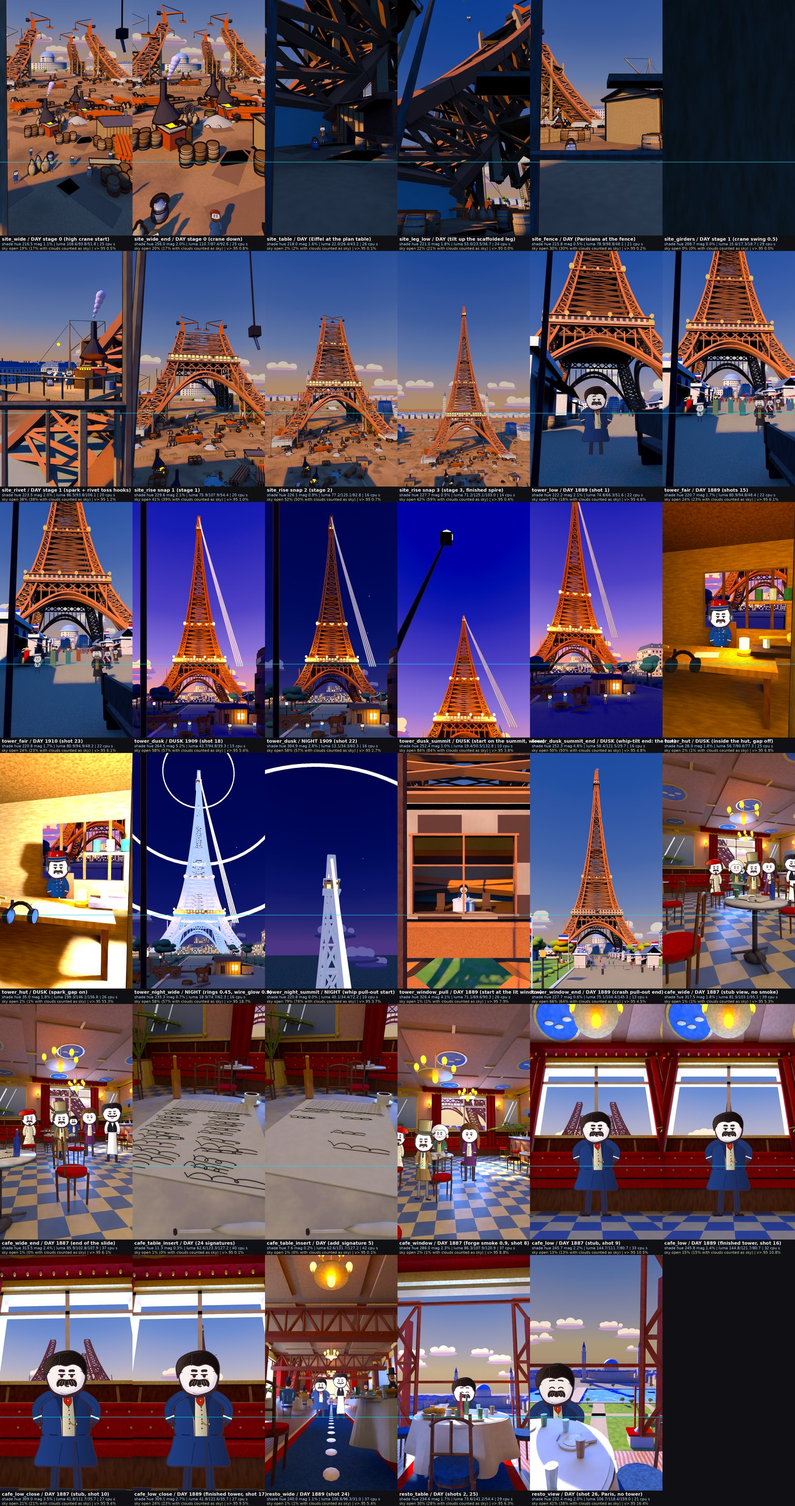
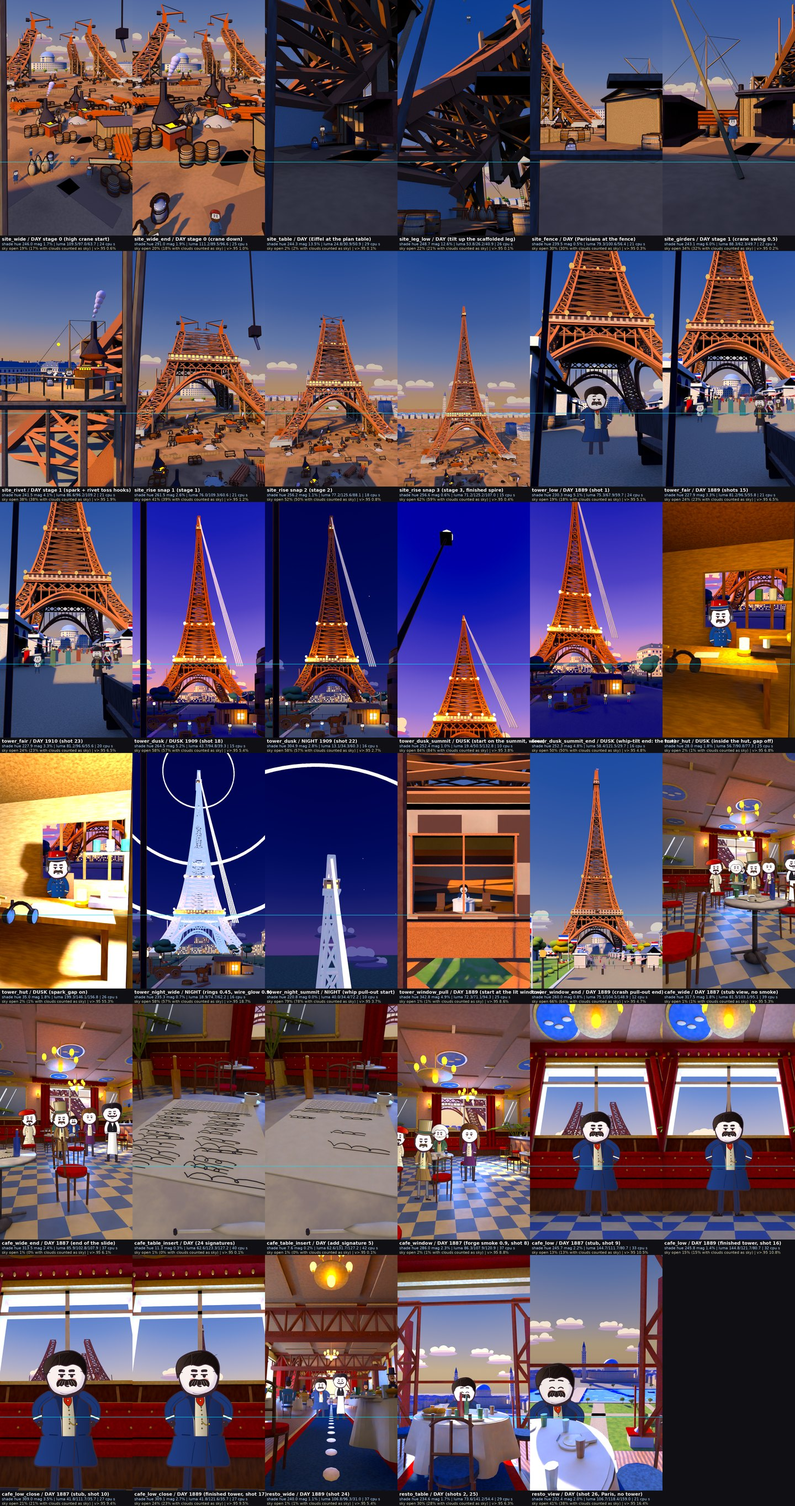
Film 20: set3d20 complete (SITE, TOWER, CAFE, RESTO; 36-tile contact, hue + cost reports)

diff --git a/film/v3/set3d20/tower20.py b/film/v3/set3d20/tower20.py
@@ -11,7 +11,7 @@ from kit20 import tw, th, Z1, Z2, Z3
 
 # ------------------------------------------------------------------ lights
 LIGHTS = dict(
-    DAY=dict(sky=['#f2c89a', '#eec4a4', '#cfc0cc', '#94aee8', '#6a8cdc', '#4c74d2', '#3a62c8'], sky_k=0.85, amb=('#3c78FF', 2.5), key=(1.0, 0.84, 0.62, 8.5), key_dir=(0.30, 0.62, -0.46), sun_angle=1.0, exposure=-0.55, sat=1.08, lamp=0.12),
+    DAY=dict(sky=['#f2c89a', '#eec4a4', '#cfc0cc', '#94aee8', '#6a8cdc', '#4c74d2', '#3a62c8'], sky_k=0.85, amb=('#5480FF', 2.5), key=(1.0, 0.84, 0.62, 8.5), key_dir=(0.30, 0.62, -0.46), sun_angle=1.0, exposure=-0.55, sat=1.08, lamp=0.12),
     DUSK=dict(sky=['#f6a878', '#f0a07e', '#c890b4', '#8a78cc', '#5a52b8', '#3a3ca8', '#262c98'], sky_k=1.0, amb=('#2c32F0', 0.95), key=(1.0, 0.66, 0.4, 3.6), key_dir=(0.6, 0.55, -0.1), sun_angle=1.5, exposure=0.25, sat=1.1, lamp=1.0),
     NIGHT=dict(sky=['#4a3a78', '#3a3470', '#2a2c68', '#1e2260', '#161a54', '#10144a', '#0a0e3c'], sky_k=1.0, amb=('#3a44F8', 0.55), key=(0.55, 0.66, 1.0, 0.9), key_dir=(0.35, 0.55, -0.55), sun_angle=2.5, exposure=0.35, sat=1.1, lamp=1.35),
 )

diff --git a/film/v3/set3d20/site20.py b/film/v3/set3d20/site20.py
@@ -12,7 +12,7 @@ from kit20 import tw, th, Z1, Z2
 # ------------------------------------------------------------------ lights (DAY)
 SKY_DAY = ['#f2c89a', '#eec4a4', '#cfc0cc', '#94aee8', '#6a8cdc', '#4c74d2', '#3a62c8']
 LIGHTS = dict(
-    DAY=dict(sky=SKY_DAY, sky_k=0.8, amb=('#3c78FF', 2.4), key=(1.0, 0.82, 0.58, 8.0), key_dir=(0.50, 0.42, -0.42), sun_angle=1.0, exposure=-0.7, sat=1.08, lamp=1.0),
+    DAY=dict(sky=SKY_DAY, sky_k=0.8, amb=('#5480FF', 2.4), key=(1.0, 0.82, 0.58, 8.0), key_dir=(0.50, 0.42, -0.42), sun_angle=1.0, exposure=-0.7, sat=1.08, lamp=1.0),
     LATE=dict(sky=['#f0a878', '#e8a090', '#c8a0b8', '#8a8cd8', '#6a76d0', '#5266c4', '#3a4cb8'], sky_k=0.8, amb=('#5a74F8', 2.0), key=(1.0, 0.66, 0.42, 7.0), key_dir=(0.62, 0.30, -0.30), sun_angle=1.2, exposure=-0.7, sat=1.1, lamp=1.0),
 )
 

diff --git a/film/v3/set3d20/API.md b/film/v3/set3d20/API.md
@@ -126,3 +126,10 @@ RESTO gate: resto_wide floor 24.3 % (<= 25), blue 25.8 % (>= 12), magenta 2.1 % 
 ## Known limits (see the report)
 The seated Maupassant has no seated puppet pose yet (stand-in card is lowered); flat cut-out diners are set dressing, not cast art; the stub / full tower are 190 m / 430 m from the café (not true to the map) so the tower reads in the window; the Trocadero reads as a stylised palace with two towers; the café window view from cafe_wide only sees the lower part of the tower stub.
 
+
+## Numbers and known limits (see hue_report.txt, cost_report.txt, contact.jpg; final 720x1280, 8 spp + OIDN, 2 threads)
+* Render cost: SITE 14-26 cpu s, TOWER 10-26 (hut 25), interiors 21-42 (cpu s of the render call; wall 5-38 s under load). Build 15-45 s per process.
+* SITE site_wide: bottom eighth luma 64, shade hue 246, magenta 1.7 %, open sky 19 % (17 % with clouds), crane 92 px tall, scaffold 36 m = 0.72 of the 50 m leg, 6 worker stand-ins 59-76 px tall (5 of 6 >= 60 px). Shade hue of the other DAY tiles 228-261 except site_wide_end (291, almost no cast shade) and the interior-ish tiles (hut, window room: warm by design).
+* Weak: site_table / site_leg_low (shade magenta 13 %: the red leg iron shades crimson, and both are dark and cluttered, composition is a start pose for the render team to move), site_wide_end shade; the SITE ground cams are cluttered with the camera-frustum scatter; the crowd and the workers' 3D standees are flat colour columns; the window room in tower_window_pull is dark/striped at the start pose; hut bottom eighth / spark tile V>.95 55 % while the arc is on (a blinding flash by design).
+* Stage 0 legs are 50 m high (brief says ~30 m).
+* **Caption band conflict:** at the board camera of `tower_dusk` / `tower_night_wide` (shift 0.345) the avenue-foot marks (`eiffel_old officer demo_*`) sit at head y ~1200 px (below the y 880 caption line, 20 px heads). To keep heads above 880 the render team must raise the camera (lower `shift`, or `loc` z ~ 12 m) for the character shots 18/22, or use the marks with a camera pitched down; I kept the approved board framing for the whole-tower read.
